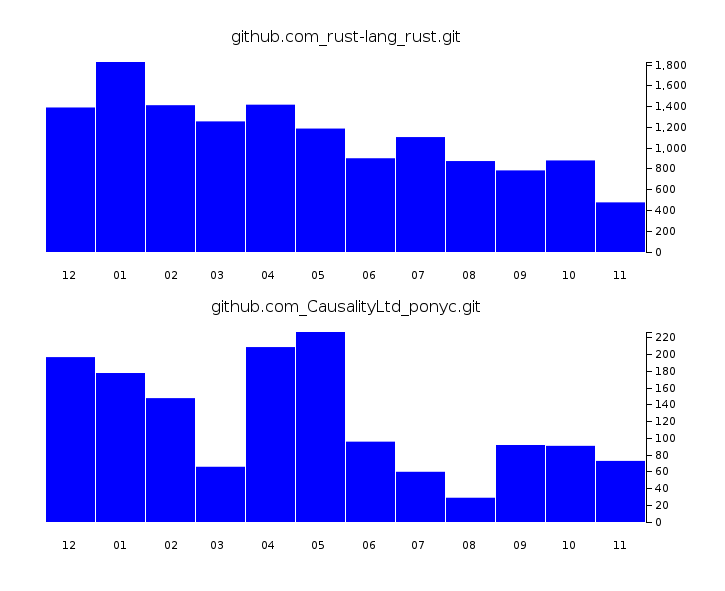
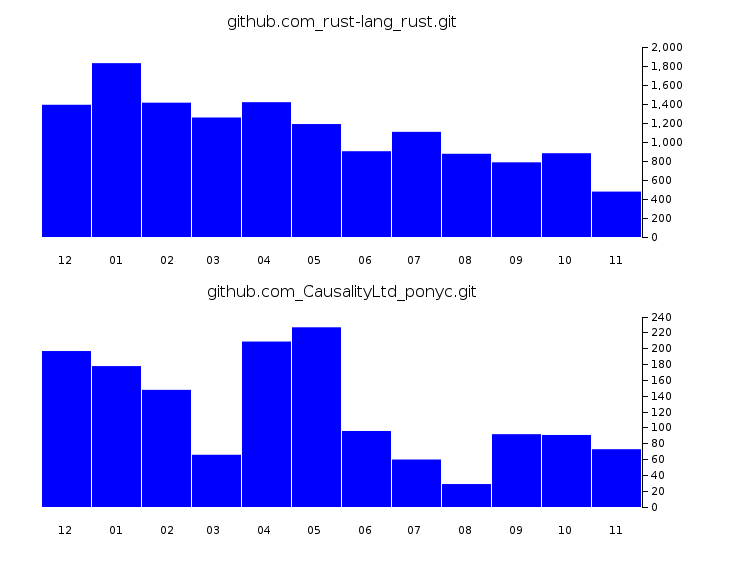
making graphs end in nice round numbers

diff --git a/site/graph.js b/site/graph.js
@@ -40,17 +40,20 @@ for (index in datasets){
     // get max value of data for scaling
     var data_max = Math.max.apply(Math, data);
 
+    // round up to nice number
+    //data_max += 170;
+
     // scale:
     // mapping all values from 0 .. data_max
     // onto 0 .. height
     var scale = d3.scale.linear()
-        .domain([0, data_max])
+        .domain([0, data_max]).nice()
         .range([0, height]);
 
     // yaxis - commit numbers
     var yaxis = d3.svg.axis()
         .scale( d3.scale.linear()
-                .domain([0, data_max])
+                .domain([0, data_max]).nice()
                 .range([height, 0]) )
         .orient("right")
         .ticks(10);
